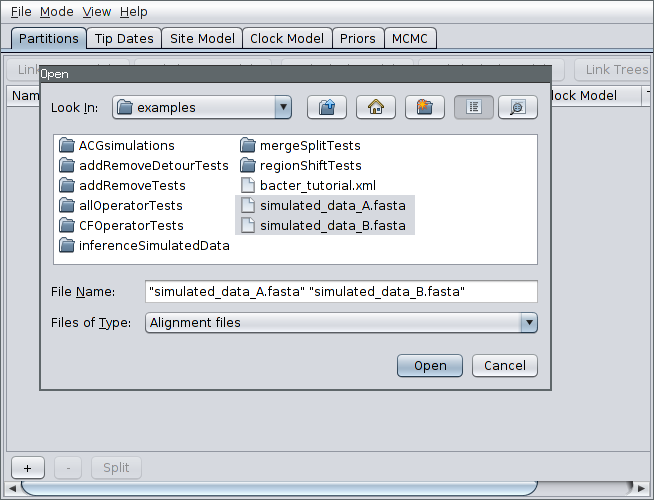
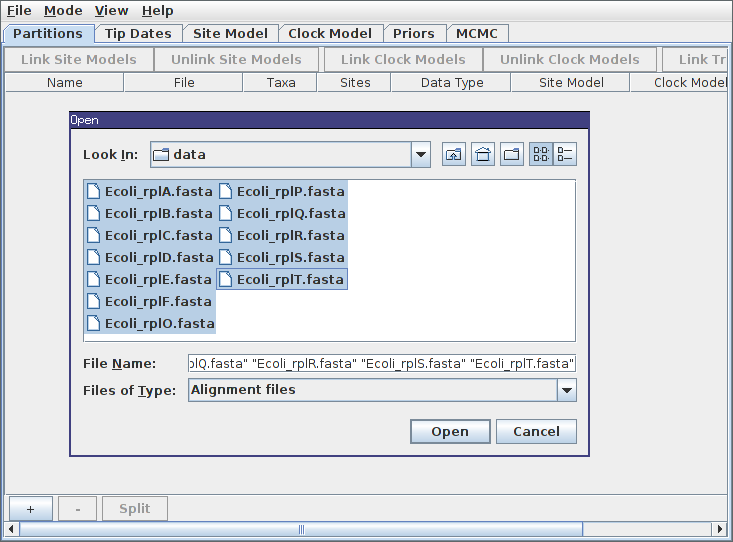
Working on tutorial.

diff --git a/README.md b/README.md
@@ -19,7 +19,9 @@ inferred from a given data set depends heavily on the size of the data
 set, and the rates of recombination and mutation for the population
 under study, and the sampling procedure.
 
-----
+This tutorial will gently walk you through the process of using Bacter,
+from to jointly infer an ARG and population model parameters from an
+example multi-locus data set.
 
 Installation
 ============
@@ -51,14 +53,9 @@ Then, ensure the "bacter" package is highlighted before pressing the
 That's it! Bacter is now installed. It is a good idea to restart BEAUti
 at this point.
 
-----
 
-Tutorial: Basic Analysis
-========================
-
-This tutorial will gently walk you through the process of using Bacter,
-from to jointly infer an ARG and population model parameters from an
-example multi-locus data set.
+Setting up the analysis
+=======================
 
 Choosing the Bacter BEAUti template
 -----------------------------------
@@ -69,38 +66,30 @@ Template submenu select "Bacter".
 
 ![image](figures/template.png){width=80%}
 
-Loading an alignment
---------------------
+Loading sequence alignments
+---------------------------
 
-Once the appropriate template is set, we can load our sequence data. In
-this tutorial we will be performing an inference based on simulated data
-that is distributed with Bacter. To load this data, first change
-BEAUti's working directory to that of the installed bacter package by
-selecting File-&gt;Set working dir-&gt;bacter. (This step is **only**
-useful when loading data/XMLs distributed with packages.)
+In this tutorial we will be analyzing a subset of the E. coli data presented in
+[Vaughan et al., Genetics, 2017](http://dx.doi.org/10.1534/genetics.116.193425).  The full data set
+consists of 53 individual gene alignments, each containing 23 sequences. In
+order to keep our tutorial analysis as manageable as possible, we will analyze
+only 12 of these genes.
 
-![image](figures/setwd.png){width=80%}
-
-Then, select File-&gt;Add Alignment, navigate to the examples/
-subdirectory. Hold down the Ctrl key (or Command if you're on a Mac) and
-click to select the two files simulated\_data\_A.fasta and
-simulated\_data\_B.fasta.
+To load the alignments, select File-&gt;Import Alignment and navigate
+to the directory containing the tutorial data.  This directory contains
+12 FASTA files, each containing the alignment for the named gene. Since
+the directory contains only these files and nothing else, we can select
+them all simply using Ctrl+A (or Command+A on a Mac).
 
 ![image](figures/load_alignments.png){width=80%}
 
-Each of these files is a simulated alignment of 20 distinct 5kb
-nucleotide sequences. Each file contains the multiple sequence alignment
-for a distinct locus. That is, each file contains exactly the same
-number of sequences from the same sampled bacteria but from different
-portions of the genome.
-
-After pressing Open, the alignments should be visible as two new records
+After pressing Open, the alignments should be visible as 12 new records
 in the table. By default, each locus is assumed to have its own distinct
 site, clock and "tree" (really ARG here) models. Since our ARGs
 potentially span multiple loci, we should definitely cause the loci to
 share a tree model. This is done by selecting both rows in the table by
 again holding down Ctrl (or Command) and clicking each in turn.
-Alternatively, you can just click on one row and then press Ctrl+A.
+Alternatively, you can just click on one row and then press Ctrl+A, or Command+A on a Mac.
 (This is easier than clicking each row if your data consists of many
 loci.) Once they're selected, press the "Link Trees" button on the
 right-hand side just above the table. In our case, we will use shared
@@ -109,8 +98,8 @@ Clock Models" buttons as well.
 
 ![image](figures/link_models.png){width=80%}
 
-Setting up the analysis
------------------------
+Defining the model
+------------------
 
 We will now configure the model under which the inference will be
 conducted.
@@ -167,7 +156,7 @@ file name (for example bacter\_tutorial.xml), and press the Save button
 to produce the BEAST input XML.
 
 Running the analysis
---------------------
+====================
 
 Run the analysis just as you would any other BEAST 2 analysis. That is,
 
@@ -181,7 +170,7 @@ output window. The analysis we've set up should take around half an hour
 to complete on a modern computer.
 
 Analyzing the results
----------------------
+=====================
 
 During the analysis results are written to several files which can
 usually located in the same directory as the directory containin the
@@ -192,7 +181,8 @@ input XML. These are:
 2.  The **tree** file, which ends in the extension .trees and contains
     sampled ARGs.
 
-### Parameter posteriors
+Parameter posteriors
+--------------------
 
 To examine the sampled parameter posteriors, open Tracer and load the
 log file. In our example analysis, the main parameters we're interested
@@ -212,7 +202,8 @@ in the interests of keeping the length of time needed to complete this
 tutorial from becoming too long, we will now proceed to further analyse
 the results we already have.
 
-### Viewing sampled ARGs
+Viewing sampled ARGs
+--------------------
 
 The ARGs sampled during a Bacter analysis can be viewed using
 browser-based [IcyTree](http://tgvaughan.github.io/icytree) phylogenetic
@@ -249,7 +240,8 @@ as this portion of the file represents ARGs sampled before convergence
 of the MCMC to the true posterior. Later trees should represent
 individual samples drawn from the posterior.
 
-### Creating a summary ARG
+Creating a summary ARG
+----------------------
 
 Individual ARGs sampled from the posterior are poor representations of
 the inference result at best, and at worst they may be completely
@@ -339,13 +331,12 @@ degree of confidence, uncertainty in the location of the other point may
 cause the conversion to appear as a number of lower-support edges.
 
 Wrapping up
------------
+===========
 
 This completes the first tutorial. In a future tutorial we will
 demonstrate how to use Bacter to perform non-parametric inference of
 population dynamics (Bayesian Skyline Plots from ARGs).
 
-----
 
 # Useful Links
 
